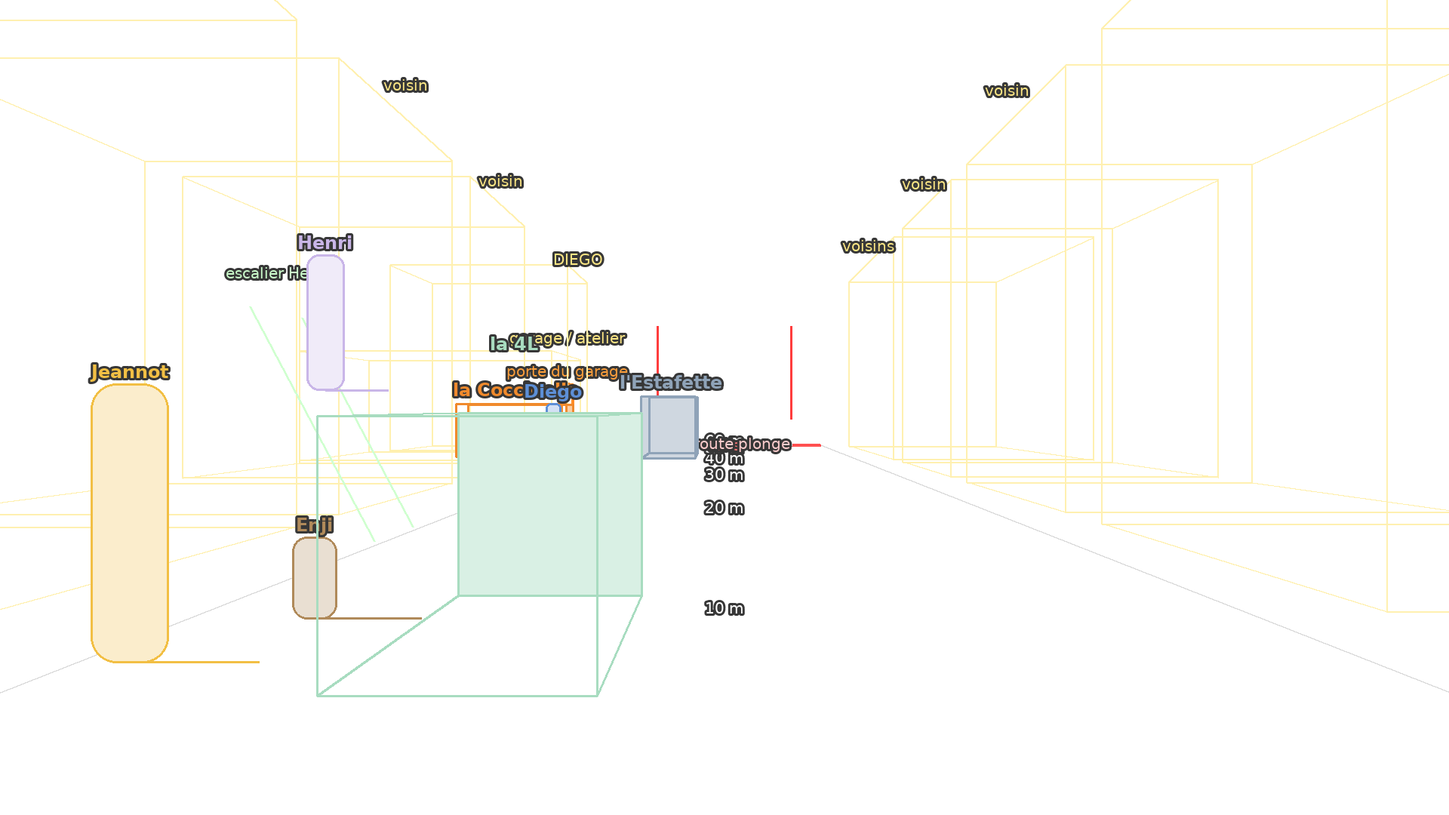
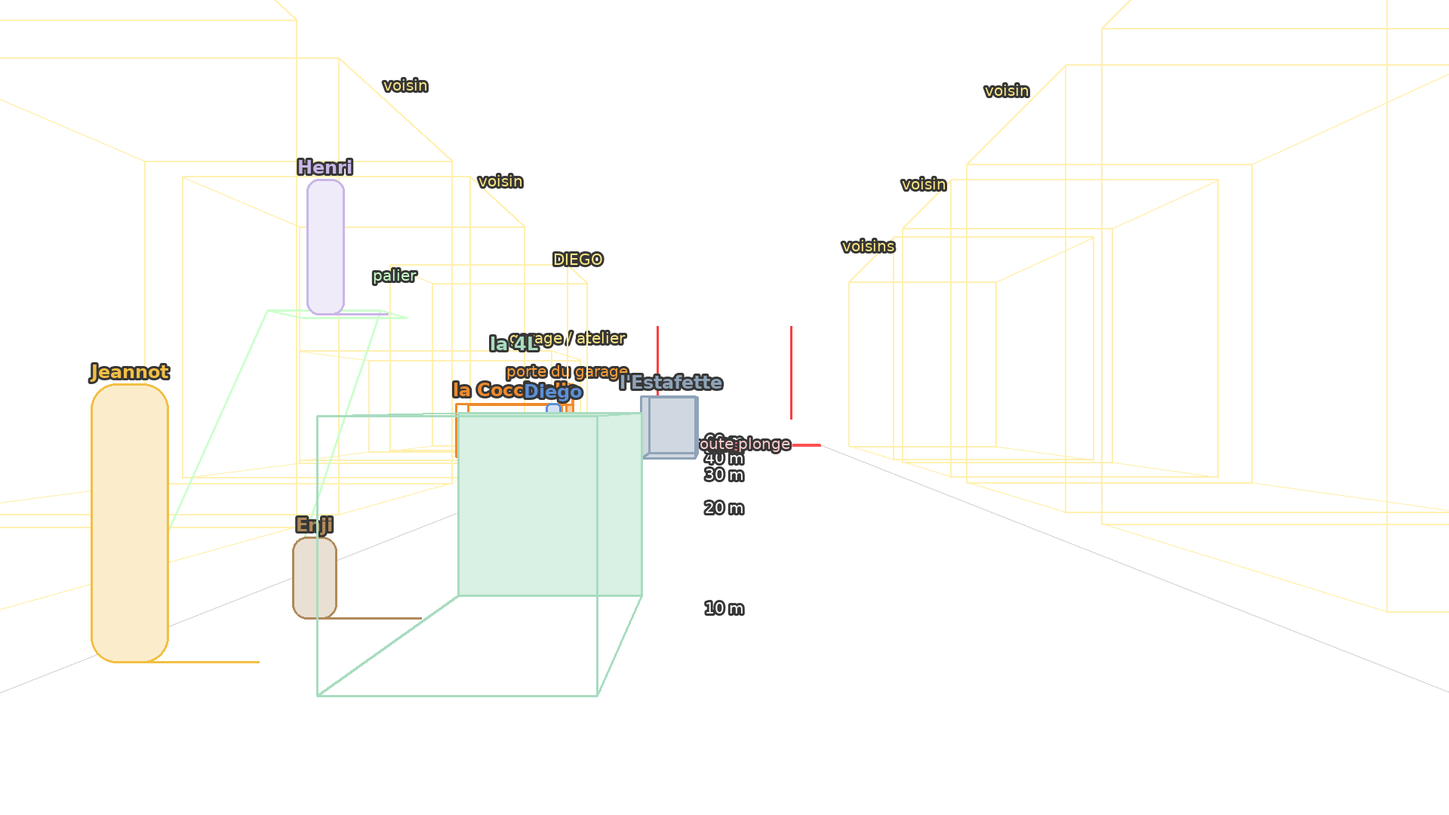
Carte : escalier d'Henri avec palier (lieux rév. 4), occultations calculées (liste « ce que voit la caméra » = vue caméra = description), position précise en mètres + flèches du clavier, emplacement en mots

Changed region(s): [[0.1562, 0.275, 0.2812, 0.3972], [0.1875, 0.4278, 0.25, 0.4889], [0.1875, 0.1833, 0.25, 0.2444]]

diff --git a/storyboard/carte.html b/storyboard/carte.html
@@ -105,8 +105,11 @@ function drawBase(){
   for(const d of L.details){
     if(d.type==='tourelle'){el('circle',{cx:d.x,cy:d.y,r:d.r,fill:'#c9b6e8',stroke:'#1b2430','stroke-width':2},g);}
     if(d.type==='escalier'){el('rect',{x:d.x,y:d.y,width:d.w,height:d.h,fill:'#bfb7a8',stroke:'#33404f'},g);
-      for(let i=1;i<6;i++)el('line',{x1:d.x+i*d.w/6,y1:d.y,x2:d.x+i*d.w/6,y2:d.y+d.h,stroke:'#6e6658'},g);
-      const t=el('text',{x:d.x+d.w/2,y:d.y+d.h+16,'font-size':12,'text-anchor':'middle',fill:'#4a5566'},g);t.textContent='escalier ext.';}
+      for(let i=1;i<9;i++)el('line',{x1:d.x+i*d.w/9,y1:d.y,x2:d.x+i*d.w/9,y2:d.y+d.h,stroke:'#6e6658'},g);
+      {const t=el('text',{x:d.x+d.w/2,y:d.y+d.h/2+4,'font-size':11,'font-weight':'bold','text-anchor':'middle',fill:'#3b352b'},g);t.textContent='monte →';}
+      if(d.palier){const p=d.palier;el('rect',{x:p.x,y:p.y,width:p.w,height:p.h,fill:'#d8cfbd',stroke:'#33404f','stroke-width':2},g);
+        const t=el('text',{x:p.x+p.w/2,y:p.y+p.h/2+4,'font-size':10,'font-weight':'bold','text-anchor':'middle',fill:'#3b352b'},g);t.textContent='palier';}
+      const t=el('text',{x:d.x+d.w/2,y:d.y+d.h+15,'font-size':12,'text-anchor':'middle',fill:'#4a5566'},g);t.textContent="escalier d'Henri";}
     if(d.type==='passage_niveau'){const x=d.x,y=d.y-120,w=d.w,h=d.h+240;
       el('rect',{x,y,width:w,height:h,fill:'#b9ab95'},g);
       for(let yy=y+6;yy<y+h;yy+=14) el('line',{x1:x+4,y1:yy,x2:x+w-4,y2:yy,stroke:'#7a5c3a','stroke-width':4},g);
@@ -137,10 +140,12 @@ function drawItems(){
   if(data.cameras.length===2){const [a,b]=data.cameras;el('line',{x1:a.x,y1:a.y,x2:b.x,y2:b.y,stroke:'#2f7fd8','stroke-width':3,'stroke-dasharray':'4 4'},items);}
   const order=Object.entries(data.elements).filter(([id,e])=>e.visible&&cat[id]).sort((a,b)=>(cat[a[0]].type==='vehicule'?0:1)-(cat[b[0]].type==='vehicule'?0:1));
   const vus=new Set(); data.cameras.forEach((c,i)=>champ(i).forEach(x=>vus.add(x.n)));
+  const occ0=vOcc(0);
   for(const [id,e] of order){
-    const k=cat[id], horsChamp=!vus.has(k.nom);
-    const g=el('g',{class:'item','data-kind':'el','data-id':id,opacity:horsChamp?0.45:1},items);
+    const k=cat[id], horsChamp=!vus.has(k.nom), cache=occ0[id];
+    const g=el('g',{class:'item','data-kind':'el','data-id':id,opacity:horsChamp?0.45:(cache&&cache[0]>=.7?0.6:1)},items);
     if(horsChamp) el('title',{},g).textContent=k.nom+' — hors champ (la caméra ne le voit pas)';
+    else if(cache) el('title',{},g).textContent=`${k.nom} — ${cache[0]>=.7?'caché':'en partie caché'} par ${cache[1]} dans la vue caméra (≈ ${Math.round(cache[0]*100)} %)`;
     if(k.type==='vehicule'){
       const w=k.w,h=k.h;
       el('polygon',{points:P(rot(e.x,e.y,[[-w/2,-h/2],[w/2,-h/2],[w/2,h/2],[-w/2,h/2]],e.angle)),fill:k.couleur,stroke:k.contour,'stroke-width':3},g);
@@ -198,7 +203,39 @@ function vBox(cx,cy,w,h,ang,z0,z1){const a=ang*Math.PI/180,c=Math.cos(a),s=Math.
   const p=[[w/2,-h/2],[w/2,h/2],[-w/2,h/2],[-w/2,-h/2]].map(([u,v])=>[cx+c*u-s*v,cy+s*u+c*v]);
   const B=p.map(q=>[...q,z0]),T=p.map(q=>[...q,z1]),E=[];for(let i=0;i<4;i++){E.push([B[i],B[(i+1)%4]],[T[i],T[(i+1)%4]],[B[i],T[i]]);}
   return {E,front:[B[0],B[1],T[1],T[0]]};}
-function vStairs(x,y){for(const d of L.details) if(d.type==='escalier'&&x>=d.x&&x<=d.x+d.w&&y>=d.y&&y<=d.y+d.h) return 2.8*(d.y+d.h-y)/d.h; return 0;}
+function vEsc(x,y){for(const d of L.details){ if(d.type!=='escalier') continue; const hm=d.hauteur||2.8,pa=d.palier;
+    if(pa&&x>=pa.x-3&&x<=pa.x+pa.w+3&&y>=pa.y-3&&y<=pa.y+pa.h+3) return {t:`sur le palier en haut de l'${d.nom} (à ${hm.toFixed(1).replace('.',',')} m du sol)`,h:hm};
+    if(x>=d.x&&x<=d.x+d.w&&y>=d.y-3&&y<=d.y+d.h+3){const f=(d.montee||'est')==='est'?(x-d.x)/d.w:(d.x+d.w-x)/d.w;
+      return {t:`${f<.25?'en bas de':f>.75?'presque en haut de':'au milieu de'} l'${d.nom} (à ${(f*hm).toFixed(1).replace('.',',')} m du sol)`,h:f*hm};}}
+  return null;}
+function vStairs(x,y){const e=vEsc(x,y);return e?e.h:0;}
+function vOu(x,y){ // où est ce point, en mots (comme la description du plan)
+  const e=vEsc(x,y); if(e) return e.t; const r=L.rue;
+  const nomL=b=>{const n=b.nom===b.nom.toUpperCase()?b.nom.toLowerCase():b.nom; return /^voisin/i.test(n)?n+(b.y<495?' (côté Jeannot)':' (côté narrateur)'):n;};
+  if(y<r.nord_trottoir||y>r.sud_trottoir){const cote=y<r.nord_trottoir?'côté Jeannot':'côté narrateur';
+    for(const b of L.batiments) if(b.x-12<=x&&x<=b.x+b.w+12&&((y<495)===(b.y<495))) return (b.y<=y&&y<=b.y+b.h?'dans/contre ':'devant ')+nomL(b)+(b.y<=y&&y<=b.y+b.h?'':', dans la cour/le jardin')+` (${cote})`;
+    return 'parcelle '+cote;}
+  const zone=y<r.chaussee_haut?'sur le trottoir côté Jeannot':y>r.chaussee_bas?'sur le trottoir côté narrateur':y<r.chaussee_haut+40?'sur la chaussée contre le trottoir côté Jeannot':y>r.chaussee_bas-40?'sur la chaussée contre le trottoir côté narrateur':'au milieu de la chaussée';
+  const north=L.batiments.filter(b=>b.y<495); const near=north.reduce((a,b)=>Math.abs(b.x+b.w/2-x)<Math.abs(a.x+a.w/2-x)?b:a);
+  return `${zone}, à hauteur de ${nomL(near)}`;}
+function vBoxes(ci){ // rectangles projetés des éléments, du plus loin au plus près
+  const k=vCam(data.cameras[ci]); const cat=Object.fromEntries(L.catalogue.map(c=>[c.id,c])); const out=[];
+  for(const [id,e] of Object.entries(data.elements)){const c=cat[id]; if(!e.visible||!c) continue; const pts=[];
+    if(c.type==='vehicule'){const hv=VHVEH[id]||1.6; vBox(e.x,e.y,c.w,c.h,e.angle,0,hv).E.forEach(([a,b])=>[a,b].forEach(p=>{const q=vP(k,...p);if(q)pts.push(q);}));}
+    else{const z0=vStairs(e.x,e.y),hh=c.espece==='chien'?0.62*(VPOSEC[e.pose]||1):1.75*(VPOSE[e.pose]||1);
+      for(const [dx,dy] of [[-7,0],[7,0],[0,-7],[0,7]]) for(const z of [z0,z0+hh]){const q=vP(k,e.x+dx,e.y+dy,z);if(q)pts.push(q);}}
+    if(!pts.length) continue; const xs=pts.map(p=>p[0]),ys=pts.map(p=>p[1]);
+    const bb=[Math.min(...xs),Math.min(...ys),Math.max(...xs),Math.max(...ys)]; if(bb[2]<0||bb[0]>VW||bb[3]<0||bb[1]>VH) continue;
+    const cc=vC(k,e.x,e.y,0); out.push({id,nom:c.nom,bb,dist:Math.hypot(cc[0],cc[2])});}
+  return out.sort((a,b)=>b.dist-a.dist);}
+function vOcc(ci){ // {id:[fraction cachée, par qui]} (même calcul que la description du plan)
+  const L2=vBoxes(ci),out={};
+  L2.forEach((a,i)=>{const area=Math.max(1,(a.bb[2]-a.bb[0])*(a.bb[3]-a.bb[1]));let best=[0,''];
+    for(const o of L2.slice(i+1)){ if(o.dist>=a.dist-0.3) continue;
+      const ix=Math.max(0,Math.min(a.bb[2],o.bb[2])-Math.max(a.bb[0],o.bb[0])),iy=Math.max(0,Math.min(a.bb[3],o.bb[3])-Math.max(a.bb[1],o.bb[1]));
+      const f=ix*iy/area; if(f>best[0]) best=[f,o.nom];}
+    if(best[0]>=.25) out[a.id]=best;});
+  return out;}
 function vClip(k,poly){ // polygone 3D (carte) -> polygone image coupé au plan proche
   const C=poly.map(p=>vC(k,...p)); const out=[];
   for(let i=0;i<C.length;i++){const A=C[i],B=C[(i+1)%C.length],ia=A[2]>=VNEAR,ib=B[2]>=VNEAR;
@@ -237,8 +274,10 @@ function drawVue(){
       faces.push({poly:[[cx-dw,y,0],[cx+dw,y,0],[cx+dw,y,2.4],[cx-dw,y,2.4]],fill:'#1a1d22',stroke:'#ff9a40',sw:4,zbias:-0.05});
       labels.push([vP(k,cx,y,2.9),'porte du garage','#ffb060',20]);}}
   for(const d of L.details){
-    if(d.type==='escalier'){faces.push({poly:[[d.x,d.y+d.h,0],[d.x+d.w,d.y+d.h,0],[d.x+d.w,d.y,2.8],[d.x,d.y,2.8]],fill:'#cfc7b6',stroke:'#6b6355'});
-      faces.push({poly:[[d.x+d.w,d.y+d.h,0],[d.x+d.w,d.y,0],[d.x+d.w,d.y,2.8]],fill:'#b3ab9a',stroke:'#6b6355'});}
+    if(d.type==='escalier'){const hm=d.hauteur||2.8;
+      faces.push({poly:[[d.x,d.y,0],[d.x,d.y+d.h,0],[d.x+d.w,d.y+d.h,hm],[d.x+d.w,d.y,hm]],fill:'#cfc7b6',stroke:'#6b6355'});
+      faces.push({poly:[[d.x,d.y+d.h,0],[d.x+d.w,d.y+d.h,0],[d.x+d.w,d.y+d.h,hm]],fill:'#b3ab9a',stroke:'#6b6355'});
+      if(d.palier){const p=d.palier; addBox(p.x+p.w/2,p.y+p.h/2,p.w,p.h,0,0,hm,'#d8cfbd','#6b6355'); labels.push([vP(k,p.x+p.w/2,p.y+p.h,hm+0.5),'palier','#d8ffd8',18]);}}
     if(d.type==='tourelle') addBox(d.x,d.y,d.r*1.6,d.r*1.6,0,0,9.5,'#c9b6e8','#4a3d63');
     if(d.type==='passage_niveau'){
       [-7,7].forEach(dx=>{const s=vSeg(k,[d.x+dx,R.nord_trottoir,0.01],[d.x+dx,R.sud_trottoir,0.01]);if(s)faces.push({line:s,stroke:'#d33',sw:3,z:vC(k,d.x,ym,0)[2]});});
@@ -298,8 +337,12 @@ function updateChamp(){
   const parts=data.cameras.map((c,i)=>{
     const ch=champ(i); const title=data.cameras.length===2?(i?'<b>Fin du mouvement :</b>':'<b>Début :</b>'):'';
     const near=ch.filter(x=>x.dist<300), mid=ch.filter(x=>x.dist>=300&&x.dist<800), far=ch.filter(x=>x.dist>=800);
-    const fmt=a=>a.map(x=>`${x.n} <i style="color:#8fa0b5">(${x.side})</i>`).join(', ')||'—';
-    return `${title}<div>🔹 <b>Premier plan :</b> ${fmt(near)}</div><div>🔸 <b>Plan moyen :</b> ${fmt(mid)}</div><div>▫ <b>Fond :</b> ${fmt(far)}</div>`;
+    const occ=vOcc(i), cat=Object.fromEntries(L.catalogue.map(k=>[k.id,k])), occN={};
+    for(const [id,[f,par]] of Object.entries(occ)) occN[cat[id].nom]=[f,par];
+    const fmt=a=>a.map(x=>{const o=occN[x.n]; return o?`<s style="color:#f08a86">${x.n}</s> <i style="color:#f08a86">(caché par ${o[1]})</i>`:`${x.n} <i style="color:#8fa0b5">(${x.side})</i>`;}).join(', ')||'—';
+    const masq=Object.entries(occN).map(([n,[f,par]])=>`${n} : ${f>=.7?'<b>caché</b>':'en partie caché'} par ${par} (≈ ${Math.round(f*100)} %)`);
+    return `${title}<div>🔹 <b>Premier plan :</b> ${fmt(near)}</div><div>🔸 <b>Plan moyen :</b> ${fmt(mid)}</div><div>▫ <b>Fond :</b> ${fmt(far)}</div>`
+      +(masq.length?`<div style="color:#f08a86">🙈 <b>Dans le champ mais masqués</b> (comme dans la vue caméra) : ${masq.join(' ; ')}</div>`:'');
   });
   const cat=Object.fromEntries(L.catalogue.map(k=>[k.id,k]));
   const vus=new Set(); data.cameras.forEach((c,i)=>champ(i).forEach(x=>vus.add(x.n)));
@@ -308,11 +351,22 @@ function updateChamp(){
   $('champ').innerHTML=parts.join('<hr style="border-color:#2a3647">')||'Pas de caméra.';
 }
 
+function fillPos(p,o){ // valeurs en mètres : depuis le bout ouest de la rue (x) et depuis le fond des parcelles côté Jeannot (y)
+  const xm=p.querySelector('[name=xm]'),ym=p.querySelector('[name=ym]'),ou=p.querySelector('#ou');
+  if(xm&&document.activeElement!==xm) xm.value=((o.x-L.rue.x0)*VM).toFixed(1);
+  if(ym&&document.activeElement!==ym) ym.value=((o.y-L.rue.nord_lot)*VM).toFixed(1);
+  if(ou){let t=vOu(o.x,o.y); if(sel&&sel.kind==='el'){const occ=vOcc(0)[sel.id]; if(occ) t+=` — 🙈 ${occ[0]>=.7?'caché':'en partie caché'} par ${occ[1]} dans la vue caméra`;} ou.textContent=t;}
+}
+document.addEventListener('keydown',e=>{
+  if(!sel||/INPUT|TEXTAREA|SELECT/.test(document.activeElement?.tagName||'')) return;
+  const st=(e.shiftKey?0.5:0.1)/VM, d={ArrowLeft:[-st,0],ArrowRight:[st,0],ArrowUp:[0,-st],ArrowDown:[0,st]}[e.key];
+  if(!d) return; e.preventDefault(); const o=selObj(); if(!o) return; o.x+=d[0]; o.y+=d[1]; setDirty(true); drawItems();
+});
 function updatePanel(rebuild=true){
   const p=$('selpanel'); const o=selObj();
   if(!o){p.innerHTML='Clique sur la caméra, un personnage ou un véhicule.<br>Position = le rond de couleur · pointe noire = sens du regard · ↻ orange = poignée pour tourner.';return;}
   if(!rebuild && p.dataset.for===`${sel.kind}-${sel.id}`){ // juste mettre à jour les valeurs
-    const a=p.querySelector('[name=angle]'); if(a&&document.activeElement!==a) a.value=Math.round(o.angle); return;
+    const a=p.querySelector('[name=angle]'); if(a&&document.activeElement!==a) a.value=Math.round(o.angle); fillPos(p,o); return;
   }
   p.dataset.for=`${sel.kind}-${sel.id}`;
   const cat=Object.fromEntries(L.catalogue.map(k=>[k.id,k]));
@@ -323,22 +377,29 @@ function updatePanel(rebuild=true){
     <div class="row">Angle de vue <input type="range" name="fov" min="8" max="100" value="${o.fov}"><span id="fovv">${o.fov}°</span></div>
     <div class="row">Longueur du cône <input type="range" name="portee" min="100" max="1500" step="10" value="${o.portee}"></div>
     <div class="help">(la longueur ne sert qu'au dessin : la caméra voit jusqu'à l'horizon)</div>
-    <div class="row">Hauteur <select name="hauteur">${HAUTEURS.map(h=>`<option ${o.hauteur===h?'selected':''}>${h}</option>`).join('')}</select></div>`;
+    <div class="row">Hauteur <select name="hauteur">${HAUTEURS.map(h=>`<option ${o.hauteur===h?'selected':''}>${h}</option>`).join('')}</select></div>
+    <div class="row">Position <input type="number" name="xm" step="0.1" style="width:78px"> m → est <input type="number" name="ym" step="0.1" style="width:72px"> m ↓ sud</div>
+    <div class="help">📍 <span id="ou"></span><br>Flèches du clavier : déplacer de 10 cm (Maj + flèche : 50 cm).</div>`;
   }else{
     const k=cat[sel.id];
     p.innerHTML=`<b>${k.nom}</b>
     <div class="row">Orientation <input type="number" name="angle" value="${Math.round(o.angle)}" style="width:70px">°
       <button data-a="-90" title="regarde vers le côté Jeannot">↑ nord</button><button data-a="90" title="regarde vers le côté narrateur">↓ sud</button></div>
     <div class="row"><button data-a="180" title="vers le bout Jeannot">← ouest</button><button data-a="0" title="vers le bout Diego">→ est</button>
-      <button id="hide">Retirer du plan</button></div>`;
+      <button id="hide">Retirer du plan</button></div>
+    <div class="row">Position <input type="number" name="xm" step="0.1" style="width:78px"> m → est <input type="number" name="ym" step="0.1" style="width:72px"> m ↓ sud</div>
+    <div class="help">📍 <span id="ou"></span><br>Flèches du clavier : déplacer de 10 cm (Maj + flèche : 50 cm).</div>`;
     if(k.type!=='vehicule'){
       const poses=(L.poses||{})[k.espece==='chien'?'chien':'perso']||[];
       p.innerHTML+=`<div class="row">Pose <select name="pose"><option value="">—</option>${poses.map(x=>`<option ${o.pose===x?'selected':''}>${x}</option>`).join('')}</select></div>
       <div class="row">Action <input type="text" name="action" value="${(o.action||'').replace(/&/g,'&amp;').replace(/</g,'&lt;').replace(/"/g,'&quot;')}" placeholder="ex. fume, regarde la 4L, aboie…" style="flex:1"></div>`;
     }
   }
+  fillPos(p,o);
   p.querySelectorAll('input,select').forEach(inp=>inp.addEventListener('input',()=>{
     const v=inp.value;
+    if(inp.name==='xm'&&v!==''){o.x=L.rue.x0+(+v)/VM; drawItems(); setDirty(true); return;}
+    if(inp.name==='ym'&&v!==''){o.y=L.rue.nord_lot+(+v)/VM; drawItems(); setDirty(true); return;}
     if(inp.name==='angle') o.angle=+v||0;
     if(inp.name==='fov'){o.fov=+v;$('fovv').textContent=v+'°';}
     if(inp.name==='focale'&&v){o.fov=+v;updatePanel(true);}

diff --git a/tools/draw_street_map.py b/tools/draw_street_map.py
@@ -96,9 +96,15 @@ def draw_base(c, L):
             c.text(d["x"] + 22, d["y"] - d["r"] - 8, "tourelle", 12, "#5b3f8c", anchor="start")
         elif d["type"] == "escalier":
             c.rect(d["x"], d["y"], d["w"], d["h"], "#bfb7a8")
-            for i in range(1, 6):
-                c.line(d["x"] + i * d["w"] / 6, d["y"], d["x"] + i * d["w"] / 6, d["y"] + d["h"], "#6e6658", 1)
-            c.text(d["x"] + d["w"] / 2, d["y"] + d["h"] + 16, "escalier ext.", 12, "#4a5566")
+            n = 9
+            for i in range(1, n):
+                c.line(d["x"] + i * d["w"] / n, d["y"], d["x"] + i * d["w"] / n, d["y"] + d["h"], "#6e6658", 1)
+            c.text(d["x"] + d["w"] / 2, d["y"] + d["h"] / 2 + 5, "monte →", 11, "#3b352b", True)
+            pa = d.get("palier")
+            if pa:
+                c.rect(pa["x"], pa["y"], pa["w"], pa["h"], "#d8cfbd", "#33404f", 2)
+                c.text(pa["x"] + pa["w"] / 2, pa["y"] + pa["h"] / 2 + 4, "palier", 10, "#3b352b", True)
+            c.text(d["x"] + d["w"] / 2, d["y"] + d["h"] + 15, "escalier d'Henri", 12, "#4a5566")
         elif d["type"] == "passage_niveau":
             x, y, w, h = d["x"], d["y"] - 120, d["w"], d["h"] + 240
             c.rect(x, y, w, h, "#b9ab95", stroke=None, sw=0)
@@ -229,8 +235,27 @@ def dans_le_champ(L, placement, cam_index=0):
     return sorted(out)
 
 
+def sur_escalier(L, x, y):
+    """(texte, hauteur en m) si le point est sur un escalier extérieur ou son palier, sinon None."""
+    for d in L["details"]:
+        if d["type"] != "escalier":
+            continue
+        hmax = d.get("hauteur", 2.8)
+        pa = d.get("palier")
+        if pa and pa["x"] - 3 <= x <= pa["x"] + pa["w"] + 3 and pa["y"] - 3 <= y <= pa["y"] + pa["h"] + 3:
+            return f"sur le palier en haut de l'{d['nom']} (à {hmax:.1f} m du sol, devant la porte du 1er étage)".replace(".", ",", 1), hmax
+        if d["x"] <= x <= d["x"] + d["w"] and d["y"] - 3 <= y <= d["y"] + d["h"] + 3:
+            f = (x - d["x"]) / d["w"] if d.get("montee", "est") == "est" else (d["x"] + d["w"] - x) / d["w"]
+            quand = "en bas de" if f < 0.25 else ("presque en haut de" if f > 0.75 else "au milieu de")
+            return f"{quand} l'{d['nom']} (à {f * hmax:.1f} m du sol)".replace(".", ",", 1), f * hmax
+    return None
+
+
 def _ou(L, x, y):
     """Décrit un point de la carte en mots."""
+    esc = sur_escalier(L, x, y)
+    if esc:
+        return esc[0]
     r = L["rue"]
     if y < r["nord_trottoir"] or y > r["sud_trottoir"]:
         cote = "côté Jeannot" if y < r["nord_trottoir"] else "côté narrateur"
@@ -285,6 +310,8 @@ def decrire(L, placement):
         prec = "" if abs(ecart) < 8 else f" (décalée de {abs(round(ecart))}° vers le {'sud' if ecart > 0 else 'nord'})" if best in (0, 180) else f" (décalée de {abs(round(ecart))}°)"
         lines.append(f"{nom} : {_ou(L, cam['x'], cam['y'])} ; regarde vers {dirs[best]}{prec} ; angle de vue {cam['fov']:.0f}° ; {cam.get('hauteur', '')}.")
         champ = dans_le_champ(L, placement, i)
+        import calque  # noqa: E402  (import tardif : calque importe ce module)
+        occ = calque.occultations(L, placement, i)
         for titre, lo, hi in (("Premier plan", 0, 300), ("Plan moyen", 300, 800), ("Fond", 800, 99999)):
             items = [f"{n} ({sd})" for dist, sd, n in champ if lo <= dist < hi]
             lines.append(f"  {titre} : {', '.join(items) if items else '—'}")
@@ -295,7 +322,8 @@ def decrire(L, placement):
                 k = cat[eid]
                 lines.append(f"  - {k['nom']} : {_ou(L, e['x'], e['y'])} ; {_vu(cam, e['x'], e['y'], e.get('angle', 0), k['type'] == 'vehicule')}"
                              + (f" ; pose : {e['pose']}" if e.get("pose") else "")
-                             + (f" ; action : {e['action']}" if e.get("action") else "") + ".")
+                             + (f" ; action : {e['action']}" if e.get("action") else "")
+                             + (f" ; ⚠ {'CACHÉ' if occ[eid][0] >= 0.7 else 'en partie caché'} par {occ[eid][1]} (≈ {occ[eid][0] * 100:.0f} %)" if eid in occ else "") + ".")
     hors = [cat[eid]["nom"] for eid, e in placement.get("elements", {}).items()
             if e.get("visible", True) and eid in cat and not any(n == cat[eid]["nom"] for c in range(len(cams)) for _, _, n in dans_le_champ(L, placement, c))]
     if hors:

diff --git a/tools/calque.py b/tools/calque.py
@@ -101,10 +101,29 @@ def box_edges(cx, cy, w, h, ang, z0, z1):
 
 
 def stairs_elev(L, x, y):
-    for d in L["details"]:
-        if d["type"] == "escalier" and d["x"] <= x <= d["x"] + d["w"] and d["y"] <= y <= d["y"] + d["h"]:
-            return 2.8 * (d["y"] + d["h"] - y) / d["h"]  # monte vers la maison (nord)
-    return 0.0
+    e = dsm.sur_escalier(L, x, y)
+    return e[1] if e else 0.0
+
+
+def occultations(L, placement, cam_i=0):
+    """{id: (fraction cachée 0..1, nom de ce qui cache)} pour les éléments masqués par un véhicule
+    ou un personnage plus proche (approximation par rectangles projetés)."""
+    els = elements_attendus(L, placement, cam_i)  # du plus loin au plus près
+    out = {}
+    for i, (eid, nom, typ, bb, dist) in enumerate(els):
+        area = max(1.0, (bb[2] - bb[0]) * (bb[3] - bb[1]))
+        best = (0.0, "")
+        for oid, onom, otyp, ob, od in els[i + 1:]:
+            if od >= dist - 0.3:
+                continue
+            ix = max(0, min(bb[2], ob[2]) - max(bb[0], ob[0]))
+            iy = max(0, min(bb[3], ob[3]) - max(bb[1], ob[1]))
+            f = ix * iy / area
+            if f > best[0]:
+                best = (f, onom)
+        if best[0] >= 0.25:
+            out[eid] = best
+    return out
 
 
 def elements_attendus(L, placement, cam_i=0):
@@ -197,10 +216,14 @@ def calque(plan_id, cam_i=0):
     # détails
     for dt in L["details"]:
         if dt["type"] == "escalier":
-            x0, y0, w, h = dt["x"], dt["y"], dt["w"], dt["h"]
-            line((x0, y0 + h, 0), (x0, y0, 2.8), (200, 255, 200, 220), 3)
-            line((x0 + w, y0 + h, 0), (x0 + w, y0, 2.8), (200, 255, 200, 220), 3)
-            label(cam.proj(x0 + w / 2, y0, 3.3), "escalier Henri", (200, 255, 200, 230))
+            x0, y0, w, h, hm = dt["x"], dt["y"], dt["w"], dt["h"], dt.get("hauteur", 2.8)
+            for yy in (y0, y0 + h):
+                line((x0, yy, 0), (x0 + w, yy, hm), (200, 255, 200, 230), 3)
+            pa = dt.get("palier")
+            if pa:
+                for a, b in box_edges(pa["x"] + pa["w"] / 2, pa["y"] + pa["h"] / 2, pa["w"], pa["h"], 0, hm, hm)[0][:4]:
+                    line(a, b, (200, 255, 200, 230), 3)
+                label(cam.proj(pa["x"] + pa["w"] / 2, pa["y"] + pa["h"], hm + 0.5), "palier", (200, 255, 200, 230))
         elif dt["type"] == "tourelle":
             for dx in (-dt["r"], dt["r"]):
                 line((dt["x"] + dx, dt["y"], 0), (dt["x"] + dx, dt["y"], 9.5), (210, 180, 255, 200), 2)

diff --git a/docs/storyboard-a-valider.md b/docs/storyboard-a-valider.md
@@ -72,62 +72,12 @@ Garage/atelier de Diego et maison inversés : le garage (porte ouverte, Coccinel
 
 <img src="../assets/storyboards/a-valider/carte/plans/p01.png" width="420" alt="carte P01">
 
-**P01 · v1** — ❌ écartée — ancien fil, commit f1eccd4 (03h40) · ⚪ faite sans carte du plan  
-Add complete clip storyboard and opening frame
-
-<img src="../assets/storyboards/a-valider/p01/p01-v1-ancien-fil-03h40.png" width="640" alt="P01 v1">
-
-**P01 · v2** — ❌ écartée — ancien fil, commit 068faf0 (03h48) · ⚪ faite sans carte du plan  
-Correct Estafette position in opening storyboard
-
-<img src="../assets/storyboards/a-valider/p01/p01-v2-ancien-fil-03h48.png" width="640" alt="P01 v2">
-
-**P01 · v3** — ❌ écartée — ancien fil, commit dda932f (06h01) · ⚪ faite sans carte du plan  
-Reframe P01 master with fixed realistic 4L placement — version en place dans le storyboard
-
-<img src="../assets/storyboards/a-valider/p01/p01-v3-ancien-fil-06h01.png" width="640" alt="P01 v3">
-
-**P01 · v4** — ❌ écartée — nouveau fil, généré le 11/10 à partir de v3 + photo de référence + style frame Jeannot · ⚪ faite sans carte du plan  
-Même géographie que v3 (4L unique contre le trottoir gauche, Estafette plus loin même côté, escalier d'Henri à droite, tourelle au fond) ; Jeannot sur le trottoir à côté de la 4L, cigarette avec un seul filet de fumée.
-
-<img src="../assets/storyboards/a-valider/p01/p01-v4-nouveau.png" width="640" alt="P01 v4">
-
-- 💬 *2026-10-11 10:58* — Je préfère la 4L vue de derrière (comme sur la photo de référence). Elle était aussi en moins bon état que sur cette version : plus rouillée, plus abîmée.
-
-**P01 · v5** — ❌ écartée — nouveau fil, généré le 11/10 d'après la carte v1 + photo de référence + style frame + v4 · ⚪ faite sans carte du plan  
-4L vue de derrière, bien plus rouillée (comme la photo) ; tourelle sur la maison de Jeannot à gauche. À corriger si on la garde : l'escalier extérieur est à DROITE (côté narrateur) au lieu d'être sur la maison d'Henri à gauche ; l'Estafette est au milieu de la rue au lieu d'être devant chez Diego au fond ; format 3:2, à recadrer en 16:9.
-
-<img src="../assets/storyboards/a-valider/p01/p01-v5-nouveau.png" width="640" alt="P01 v5">
-
-**P01 · v6** — ❌ écartée — nouveau fil, retouche de v5 pour coller à la carte v1 · ⚪ faite sans carte du plan  
-Comme v5 (4L vue de derrière, très rouillée, tourelle sur la maison de Jeannot) mais en 16:9 ; l'escalier extérieur est maintenant sur la maison d'Henri, juste après celle de Jeannot à gauche ; plus d'escalier à droite. Reste à vérifier : l'Estafette est bien au fond, mais plutôt au milieu de la chaussée qu'au bord gauche devant le garage de Diego.
-
-<img src="../assets/storyboards/a-valider/p01/p01-v6-nouveau.png" width="640" alt="P01 v6">
-
-- 💬 *2026-10-11 11:14* — il faudra  prendre en compte  mon avis  de l'image de la carte
-- 💬 *2026-10-11 11:15* — il faudra  prendre en compte  mon avis  de l'image de la carte  
-Pour le garage de diego
-
-**P01 · v7** — ❌ écartée — nouveau fil, retouche de v6 avec la carte v2 · ⚪ faite sans carte du plan  
-Comme v6, avec au fond le garage ouvert et la Coccinelle orange bien visible dedans. Écarts avec la carte : le garage est placé tout au bout, face à la rue (comme si la rue finissait sur chez Diego), au lieu d'être sur le côté gauche, et l'Estafette est au milieu de la chaussée au lieu d'être garée à gauche devant la maison. Recadrée en 16:9.
-
-<img src="../assets/storyboards/a-valider/p01/p01-v7-nouveau.png" width="640" alt="P01 v7">
-
-- 💬 *2026-10-11 11:26* — Pour  le garage je préfère  devant l'estafette  qu'on puisse juste distingué une ouverture  ça sera juste pour les plan  ou il faudra voir le garage  mais que ça soit cohérent avec la rue
-
 **P01 · v8** — 🔁 à retoucher — nouveau fil, retouche de v6 d'après ton avis sur v7 (garage = simple ouverture, rue cohérente) · ⚪ faite sans carte du plan  
 La rue continue tout droit (elle ne finit plus sur le garage) ; on distingue juste une ouverture de garage sombre sur la gauche, sans voiture visible. Écarts avec la carte : le garage arrive trop tôt (juste après la maison d'Henri au lieu d'être après deux voisins), et l'Estafette est encore au milieu de la chaussée au lieu d'être garée à gauche devant la maison de Diego.
 
 <img src="../assets/storyboards/a-valider/p01/p01-v8-nouveau.png" width="640" alt="P01 v8">
 
 - 💬 *2026-10-11 11:50* — la rue se termine après l'estafette de diego  par un passage à niveau de train  elle descend ensuite donc on plus des collines au fond
-
-**P01 · v9** — ❌ écartée — nouveau fil, générée d'après ta carte P01 rév. 1 + v8 (style) + photo de référence · 🟠 faite d'après la carte rév. 1 — la carte a changé depuis  
-Suit la carte rév. 1 : caméra au milieu de la chaussée au bout de Jeannot, 4L de dos très rouillée, Jeannot hors champ, passage à niveau au bout (croix de Saint-André, barrières). Écarts : Henri est en bas de son escalier au lieu d'en haut, le garage arrive trop tôt, l'Estafette est au milieu de la chaussée, et on voit encore des maisons après le passage à niveau au lieu des collines.
-
-<img src="../assets/storyboards/a-valider/p01/p01-v9-carte-rev1.png" width="640" alt="P01 v9">
-
-- 💬 *2026-10-11 12:08* — (remarque donnée dans le chat) J’ai choisi l’image du passage à niveau. Il faut qu’il soit ouvert, avec les rails de chemin de fer entre les 2 barrières, sinon c’est bizarre juste la route. Après, la route descend à 45°, on ne la voit plus.
 
 **P01 · v10** — ⏳ à valider — nouveau fil, retouche de v9 d'après ta carte P01 rév. 2 (+ fiche d'Enji) · 🟠 faite d'après la carte rév. 2 — la carte a changé depuis  
 Suit la carte rév. 2 : Enji ajouté sur la chaussée à côté de la 4L, Henri en haut de son escalier, après le passage à niveau la route descend et on ne voit plus que des collines. Écarts restants : Enji est trop grand pour sa distance, l'Estafette reste au milieu de la chaussée (au lieu de garée à gauche devant chez Diego), le garage arrive juste après la maison d'Henri.
@@ -148,12 +98,31 @@ Repart de v8 pour retrouver le dessin doux d'avant et le Jeannot de v8 (barbe br
 
 - 💬 *2026-10-11 12:40* — le fond de la rue n'est plus bon il faut reprendre celui de la V11 vérifier que henri ressemble bien à henri  ce qui n'est pas du tout le cas de même pour Diego au fond
 
-**P01 · v13** — 🔁 à retoucher — nouveau fil, montage : v12 (style v8) + fond de rue de v11, Henri et Diego refaits d'après leurs fiches, carte P01 rév. 5 · 🟢 conforme à la carte actuelle (rév. 5)  
+**P01 · v13** — 🔁 à retoucher — nouveau fil, montage : v12 (style v8) + fond de rue de v11, Henri et Diego refaits d'après leurs fiches, carte P01 rév. 5 · 🟠 faite d'après la carte rév. 5 — la carte a changé depuis  
 Montage pour ne plus perdre le style : Jeannot, Enji, la 4L et les maisons viennent de v12 ; le bout de la rue (garage ouvert avec la Coccinelle, Estafette, passage à niveau ouvert, collines) vient de v11, recalé au pixel près ; balcon de la tourelle vidé (repris de v8) ; Henri redessiné d'après sa fiche (cheveux longs en bataille, lunettes, pull marron) et posé sur son escalier, quelques marches au-dessus du sol (rév. 5) ; Diego refait d'après sa fiche (casquette, moustache, t-shirt kaki, salopette bleue) ; rails renforcés entre les barrières. Écarts possibles : Henri est petit (échelle des marches) ; l'Estafette n'est pas tout à fait collée au trottoir ; Enji est à gauche de Jeannot.
 
 <img src="../assets/storyboards/a-valider/p01/p01-v13-montage-rev5.png" width="640" alt="P01 v13">
 
 - 💬 *2026-10-11 12:50* — l'estafette ne ressemble plus trop  celle du début et il y a un souci de corrélation des postions sur la carte et celle généré la coccinelle à le bout  du nez à la limite de la sortie du garage sur le plan et là elle sort sur le trottoire
+
+<details><summary>🗄 8 option(s) écartée(s) : v1, v2, v3, v4, v5, v6, v7, v9</summary>
+
+- **v1** — ancien fil, commit f1eccd4 (03h40) — ../assets/storyboards/a-valider/p01/p01-v1-ancien-fil-03h40.png
+- **v2** — ancien fil, commit 068faf0 (03h48) — ../assets/storyboards/a-valider/p01/p01-v2-ancien-fil-03h48.png
+- **v3** — ancien fil, commit dda932f (06h01) — ../assets/storyboards/a-valider/p01/p01-v3-ancien-fil-06h01.png
+- **v4** — nouveau fil, généré le 11/10 à partir de v3 + photo de référence + style frame Jeannot — ../assets/storyboards/a-valider/p01/p01-v4-nouveau.png
+  - 💬 *2026-10-11 10:58* — Je préfère la 4L vue de derrière (comme sur la photo de référence). Elle était aussi en moins bon état que sur cette version : plus rouillée, plus abîmée.
+- **v5** — nouveau fil, généré le 11/10 d'après la carte v1 + photo de référence + style frame + v4 — ../assets/storyboards/a-valider/p01/p01-v5-nouveau.png
+- **v6** — nouveau fil, retouche de v5 pour coller à la carte v1 — ../assets/storyboards/a-valider/p01/p01-v6-nouveau.png
+  - 💬 *2026-10-11 11:14* — il faudra  prendre en compte  mon avis  de l'image de la carte
+  - 💬 *2026-10-11 11:15* — il faudra  prendre en compte  mon avis  de l'image de la carte  
+Pour le garage de diego
+- **v7** — nouveau fil, retouche de v6 avec la carte v2 — ../assets/storyboards/a-valider/p01/p01-v7-nouveau.png
+  - 💬 *2026-10-11 11:26* — Pour  le garage je préfère  devant l'estafette  qu'on puisse juste distingué une ouverture  ça sera juste pour les plan  ou il faudra voir le garage  mais que ça soit cohérent avec la rue
+- **v9** — nouveau fil, générée d'après ta carte P01 rév. 1 + v8 (style) + photo de référence — ../assets/storyboards/a-valider/p01/p01-v9-carte-rev1.png
+  - 💬 *2026-10-11 12:08* — (remarque donnée dans le chat) J’ai choisi l’image du passage à niveau. Il faut qu’il soit ouvert, avec les rails de chemin de fer entre les 2 barrières, sinon c’est bizarre juste la route. Après, la route descend à 45°, on ne la voit plus.
+
+</details>
 
 ## P02
 
